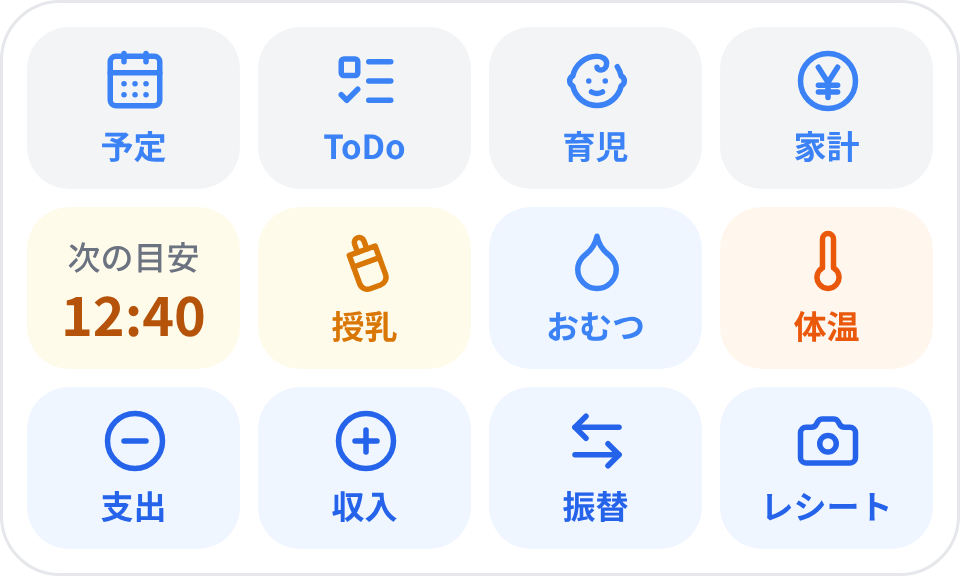
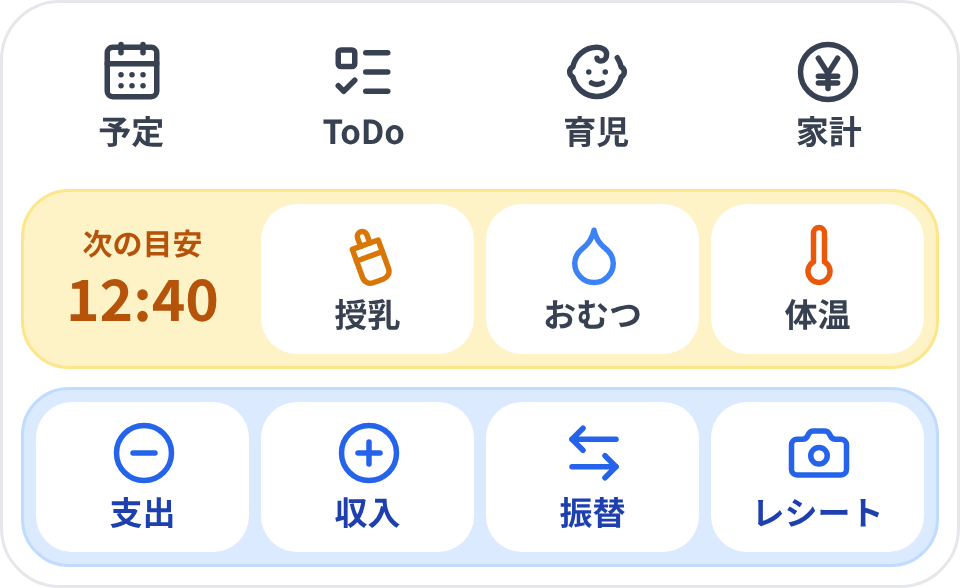
ウィジェットの配色を、まとまりごとの地の色で見分けられるように直す
- タブ: 白の地に、四角を持たない灰色のアイコン
- 育児: 琥珀の地に白いボタン（アイコンは記録の色、名前は灰色）
- 家計: 青の地に白いボタン
- 重ねたものは白の外枠の中で、育児・家計の段がそれぞれ自分の地を持つ
- 追加画面の見本を、ウィジェットのコードから描き直して作り直す

Claude-Session: https://claude.ai/code/session_01GrwNpQrqdVn461n6pnPzDs

diff --git a/mobile/src/widgets/parts.tsx b/mobile/src/widgets/parts.tsx
@@ -8,23 +8,42 @@ import { widgetIcon, type WidgetIconName } from './icons';
 // 色はアプリの配色（src/lib/theme.ts）をそのまま使う。アプリはライトだけ（app.config.js の
 // userInterfaceStyle: 'light'）なので、ウィジェットも端末がダークモードでもライトのまま描く
 // （ダーク用の絵は渡さない。ルートの CLAUDE.md の「配色」）。
+//
+// まとまり（タブ・育児・家計）ごとに地の色を決め、単体でも重ねても、どこからどこまでが
+// どのまとまりかが分かるようにする（2026-10-14。全部が淡い色の四角で見分けられなかった）。
+// - タブ: 白の地に、四角を持たない灰色のアイコン（下のタブバーと同じ「移動」の見た目）
+// - 育児: 琥珀の地（記録の授乳の色）に、白い四角のボタン
+// - 家計: 青の地（家計タブの差し色）に、白い四角のボタン
 
 const hex = (value: string) => value as ColorProp;
 
-/** ウィジェットの外枠。白の地に薄い枠線（アプリのカードと同じ）。中はボタンを横に並べた1段（4×1）。 */
-export function WidgetFrame({ children, gap = 8, padding = 12 }: { children: React.ReactNode; gap?: number; padding?: number }) {
+export type WidgetTone = 'tabs' | 'care' | 'money';
+
+/** まとまりの地と枠の色。 */
+export const TONES: Record<WidgetTone, { surface: string; border: string }> = {
+  tabs: { surface: colors.surface, border: colors.border },
+  // 白いボタンが浮いて見え、隣の段と見分けがつく濃さ（100番台）にする。
+  care: { surface: colors.milkBadge, border: colors.milkBorder },
+  money: { surface: colors.moneySoft, border: colors.diaperBorder },
+};
+
+/**
+ * ウィジェットの外枠。単体のときはそのまとまりの地の色で塗る。
+ * 重ねたもの（CombinedWidgets.tsx）は白の地で、育児・家計の段がそれぞれ自分の地（GroupBox）を持つ。
+ */
+export function WidgetFrame({ children, tone = 'tabs' }: { children: React.ReactNode; tone?: WidgetTone }) {
   return (
     <FlexWidget
       style={{
         height: 'match_parent',
         width: 'match_parent',
         flexDirection: 'column',
-        backgroundColor: hex(colors.surface),
+        backgroundColor: hex(TONES[tone].surface),
         borderRadius: 20,
         borderWidth: 1,
-        borderColor: hex(colors.border),
-        padding,
-        flexGap: gap,
+        borderColor: hex(TONES[tone].border),
+        padding: 6,
+        flexGap: 6,
       }}
     >
       {children}
@@ -32,19 +51,45 @@ export function WidgetFrame({ children, gap = 8, padding = 12 }: { children: Rea
   );
 }
 
-/** 押すと入力画面などを開く四角いボタン（アイコン＋短い名前）。 */
+/** 重ねたものの中の1段ぶんの地（育児・家計）。 */
+export function GroupBox({ children, tone }: { children: React.ReactNode; tone: WidgetTone }) {
+  return (
+    <FlexWidget
+      style={{
+        flex: 1,
+        width: 'match_parent',
+        flexDirection: 'row',
+        backgroundColor: hex(TONES[tone].surface),
+        borderRadius: 16,
+        borderWidth: 1,
+        borderColor: hex(TONES[tone].border),
+        padding: 4,
+        flexGap: 4,
+      }}
+    >
+      {children}
+    </FlexWidget>
+  );
+}
+
+/**
+ * 押すと入力画面などを開くボタン（アイコン＋短い名前）。
+ * tile は白い四角（育児・家計の地の上に置く）、plain は四角を持たない（タブ）。
+ */
 export function ActionButton({
   icon,
   label,
   uri,
   color,
-  surface,
+  labelColor = color,
+  variant = 'tile',
 }: {
   icon: WidgetIconName;
   label: string;
   uri: string;
   color: string;
-  surface: string;
+  labelColor?: string;
+  variant?: 'tile' | 'plain';
 }) {
   return (
     <FlexWidget
@@ -57,22 +102,21 @@ export function ActionButton({
         flexDirection: 'column',
         alignItems: 'center',
         justifyContent: 'center',
-        backgroundColor: hex(surface),
-        borderRadius: 14,
-        paddingVertical: 6,
+        ...(variant === 'tile' && { backgroundColor: hex(colors.surface), borderRadius: 12 }),
+        paddingVertical: 4,
         flexGap: 2,
       }}
     >
       <SvgWidget svg={widgetIcon(icon, color)} style={{ width: 22, height: 22 }} />
-      <TextWidget text={label} maxLines={1} style={{ fontSize: 11, fontWeight: '700', color: hex(color) }} />
+      <TextWidget text={label} maxLines={1} style={{ fontSize: 11, fontWeight: '700', color: hex(labelColor) }} />
     </FlexWidget>
   );
 }
 
-/** ボタンを横に並べる行。残りの高さをすべて使う。 */
-export function ButtonRow({ children }: { children: React.ReactNode }) {
+/** ボタンを横に並べる行（地を持たない）。残りの高さをすべて使う。 */
+export function ButtonRow({ children, gap = 4 }: { children: React.ReactNode; gap?: number }) {
   return (
-    <FlexWidget style={{ flex: 1, width: 'match_parent', flexDirection: 'row', flexGap: 6 }}>{children}</FlexWidget>
+    <FlexWidget style={{ flex: 1, width: 'match_parent', flexDirection: 'row', flexGap: gap }}>{children}</FlexWidget>
   );
 }
 

diff --git a/mobile/src/widgets/CareWidget.tsx b/mobile/src/widgets/CareWidget.tsx
@@ -3,19 +3,20 @@ import { appLink, OPEN_LOG_PARAM } from '@/lib/appLinks';
 import { formatTimeString } from '@/lib/dateUtils';
 import { colors } from '@/lib/theme';
 import type { LogType } from '@/types/app';
-import { ActionButton, ButtonRow, hex, WidgetFrame } from './parts';
+import { ActionButton, ButtonRow, GroupBox, hex, WidgetFrame } from './parts';
 import type { CareWidgetData, WidgetData, WidgetDataError } from './widgetData';
 import type { WidgetIconName } from './icons';
 
-// B. 育児（docs/widgets.md §2.2）。4×1 の1段に、次の授乳の目安と3つのボタンを並べる。
+// B. 育児（docs/widgets.md §2.2）。4×1 の1段に、次の授乳の目安と3つのボタンを並べる。琥珀の地に白いボタン。
 // 見出しは出さない。搾乳は授乳の入力画面にまとめてある（頻度も少ない）ので、ボタンを置かない。
 // ボタンはお知らせのタップと同じ飛び先（`/care?open=milk`。src/lib/appLinks.ts）。
 // ウィジェットから直接は保存しない（押し間違いで記録が増えないように）。
 
-const BUTTONS: { type: LogType; icon: WidgetIconName; label: string; color: string; surface: string }[] = [
-  { type: 'milk', icon: 'milk', label: '授乳', color: colors.milk, surface: colors.milkSurface },
-  { type: 'diaper', icon: 'diaper', label: 'おむつ', color: colors.diaper, surface: colors.diaperSurface },
-  { type: 'temperature', icon: 'temperature', label: '体温', color: colors.temperature, surface: colors.temperatureSurface },
+// アイコンは記録の種類の色（育児タブと同じ）、名前は灰色でそろえる（地の琥珀と競わないように）。
+const BUTTONS: { type: LogType; icon: WidgetIconName; label: string; color: string }[] = [
+  { type: 'milk', icon: 'milk', label: '授乳', color: colors.milk },
+  { type: 'diaper', icon: 'diaper', label: 'おむつ', color: colors.diaper },
+  { type: 'temperature', icon: 'temperature', label: '体温', color: colors.temperature },
 ];
 
 const careUri = appLink('care');
@@ -33,46 +34,42 @@ const dueLines = (data: WidgetData<CareWidgetData>): { label: string; value: str
   return { label: '次の目安', value: data.value.dueAt ? formatTimeString(data.value.dueAt) : '—' };
 };
 
-/** 次の目安と3つのボタンを並べた1段。タブと1つにまとめたもの（CombinedWidgets.tsx）でも使う。 */
-export function CareRow({ data }: { data: WidgetData<CareWidgetData> }) {
+/** 目安の欄と3つのボタン（地は持たない。単体は外枠、重ねたものは GroupBox が育児の地になる）。 */
+function careCells(data: WidgetData<CareWidgetData>) {
   const { label, value } = dueLines(data);
-  return (
-    <ButtonRow>
-      <FlexWidget
-        clickAction="OPEN_URI"
-        clickActionData={{ uri: careUri }}
-        accessibilityLabel={`${label} ${value}`}
-        style={{
-          flex: 1,
-          height: 'match_parent',
-          flexDirection: 'column',
-          alignItems: 'center',
-          justifyContent: 'center',
-          backgroundColor: hex(colors.milkSurface),
-          borderRadius: 14,
-        }}
-      >
-        <TextWidget text={label} maxLines={1} style={{ fontSize: 11, fontWeight: '500', color: hex(colors.textMuted) }} />
-        <TextWidget text={value} maxLines={1} style={{ fontSize: 18, fontWeight: '700', color: hex(colors.milkText) }} />
-      </FlexWidget>
-      {BUTTONS.map(({ type, icon, label: buttonLabel, color, surface }) => (
-        <ActionButton
-          key={type}
-          icon={icon}
-          label={buttonLabel}
-          uri={appLink('care', { [OPEN_LOG_PARAM]: type })}
-          color={color}
-          surface={surface}
-        />
-      ))}
-    </ButtonRow>
-  );
+  return [
+    <FlexWidget
+      key="due"
+      clickAction="OPEN_URI"
+      clickActionData={{ uri: careUri }}
+      accessibilityLabel={`${label} ${value}`}
+      style={{ flex: 1, height: 'match_parent', flexDirection: 'column', alignItems: 'center', justifyContent: 'center' }}
+    >
+      <TextWidget text={label} maxLines={1} style={{ fontSize: 10, fontWeight: '700', color: hex(colors.milkText) }} />
+      <TextWidget text={value} maxLines={1} style={{ fontSize: 19, fontWeight: '700', color: hex(colors.milkText) }} />
+    </FlexWidget>,
+    ...BUTTONS.map(({ type, icon, label: buttonLabel, color }) => (
+      <ActionButton
+        key={type}
+        icon={icon}
+        label={buttonLabel}
+        uri={appLink('care', { [OPEN_LOG_PARAM]: type })}
+        color={color}
+        labelColor={colors.textSubtle}
+      />
+    )),
+  ];
+}
+
+/** 育児の地の1段。タブと1つにまとめたもの（CombinedWidgets.tsx）で使う。 */
+export function CareRow({ data }: { data: WidgetData<CareWidgetData> }) {
+  return <GroupBox tone="care">{careCells(data)}</GroupBox>;
 }
 
 export function CareWidget({ data }: { data: WidgetData<CareWidgetData> }) {
   return (
-    <WidgetFrame padding={8}>
-      <CareRow data={data} />
+    <WidgetFrame tone="care">
+      <ButtonRow>{careCells(data)}</ButtonRow>
     </WidgetFrame>
   );
 }

diff --git a/mobile/src/widgets/MoneyWidget.tsx b/mobile/src/widgets/MoneyWidget.tsx
@@ -1,11 +1,11 @@
 import { appLink, OPEN_MONEY_PARAM, type MoneyOpen } from '@/lib/appLinks';
 import { colors } from '@/lib/theme';
-import { ActionButton, ButtonRow, WidgetFrame } from './parts';
+import { ActionButton, ButtonRow, GroupBox, WidgetFrame } from './parts';
 import type { WidgetIconName } from './icons';
 
 // C. 家計（docs/widgets.md §2.3）。4×1 の1段に4つのボタンだけを並べる（見出し・金額は出さない）。
 // 支出・収入・振替は記録の入力画面をその種類で開き、レシートは撮影から始める。
-// 中身を読まないので、ログインしていなくても圏外でも同じように出る。色は家計タブの差し色（青）。
+// 中身を読まないので、ログインしていなくても圏外でも同じように出る。青の地（家計タブの差し色）に白いボタン。
 
 const BUTTONS: { open: MoneyOpen; icon: WidgetIconName; label: string }[] = [
   { open: 'expense', icon: 'expense', label: '支出' },
@@ -14,28 +14,27 @@ const BUTTONS: { open: MoneyOpen; icon: WidgetIconName; label: string }[] = [
   { open: 'receipt', icon: 'receipt', label: 'レシート' },
 ];
 
-/** 4つのボタンを並べた1段。タブと1つにまとめたもの（CombinedWidgets.tsx）でも使う。 */
+const moneyCells = () =>
+  BUTTONS.map(({ open, icon, label }) => (
+    <ActionButton
+      key={open}
+      icon={icon}
+      label={label}
+      uri={appLink('money', { [OPEN_MONEY_PARAM]: open })}
+      color={colors.money}
+      labelColor={colors.moneyText}
+    />
+  ));
+
+/** 家計の地の1段。タブと1つにまとめたもの（CombinedWidgets.tsx）で使う。 */
 export function MoneyRow() {
-  return (
-    <ButtonRow>
-      {BUTTONS.map(({ open, icon, label }) => (
-        <ActionButton
-          key={open}
-          icon={icon}
-          label={label}
-          uri={appLink('money', { [OPEN_MONEY_PARAM]: open })}
-          color={colors.money}
-          surface={colors.moneySurface}
-        />
-      ))}
-    </ButtonRow>
-  );
+  return <GroupBox tone="money">{moneyCells()}</GroupBox>;
 }
 
 export function MoneyWidget() {
   return (
-    <WidgetFrame padding={8}>
-      <MoneyRow />
+    <WidgetFrame tone="money">
+      <ButtonRow>{moneyCells()}</ButtonRow>
     </WidgetFrame>
   );
 }

diff --git a/mobile/src/widgets/LauncherWidget.tsx b/mobile/src/widgets/LauncherWidget.tsx
@@ -6,6 +6,7 @@ import type { WidgetIconName } from './icons';
 
 // A. 4タブのランチャー（docs/widgets.md §2.1）。押したタブでアプリを開く（最初のタブの設定に関係なく）。
 // データは読まないので、ログインしていなくても圏外でも同じように出る。
+// 白の地に、四角を持たない灰色のアイコンを並べる（下のタブバーと同じ「移動」の見た目。育児・家計の色の段と区別する）。
 // 横長（4×1）なら横一列、正方形に近い（2×2）なら2段に並べる。
 // 育児・家計と1つにまとめたもの（CombinedWidgets.tsx）では、上の1段（TabsRow）として使う。
 
@@ -17,14 +18,7 @@ const TABS: { tab: TabId; icon: WidgetIconName; label: string }[] = [
 ];
 
 const button = ({ tab, icon, label }: (typeof TABS)[number]) => (
-  <ActionButton
-    key={tab}
-    icon={icon}
-    label={label}
-    uri={appLink(tab)}
-    color={colors.navActive}
-    surface={colors.neutralSurface}
-  />
+  <ActionButton key={tab} icon={icon} label={label} uri={appLink(tab)} color={colors.textSubtle} variant="plain" />
 );
 
 /** 4タブを横一列に並べた1段。 */
@@ -35,7 +29,7 @@ export function TabsRow() {
 export function LauncherWidget({ width, height }: { width: number; height: number }) {
   const twoRows = width < height * 2;
   return (
-    <WidgetFrame padding={8} gap={6}>
+    <WidgetFrame tone="tabs">
       {twoRows
         ? [
             <ButtonRow key="top">{TABS.slice(0, 2).map(button)}</ButtonRow>,

diff --git a/mobile/src/widgets/CombinedWidgets.tsx b/mobile/src/widgets/CombinedWidgets.tsx
@@ -7,11 +7,12 @@ import type { CareWidgetData, WidgetData } from './widgetData';
 // タブ（4×1）に育児・家計の段を重ねた、1つにまとめたウィジェット（docs/widgets.md §2.4）。
 // 段の中身は単体のウィジェット（TabLauncher・CareQuick・MoneyQuick）とまったく同じで、
 // 1段ぶんずつ縦に積むだけ（タブ＋育児＋家計は4×3、タブ＋育児・タブ＋家計は4×2）。
+// 外枠は白で、育児・家計の段はそれぞれ自分の地の色を持つ（どこからどこまでがどのまとまりか分かるように）。
 
 /** タブ＋育児＋家計（4×3）。 */
 export function TabsCareMoneyWidget({ care }: { care: WidgetData<CareWidgetData> }) {
   return (
-    <WidgetFrame padding={8} gap={6}>
+    <WidgetFrame>
       <TabsRow />
       <CareRow data={care} />
       <MoneyRow />
@@ -22,7 +23,7 @@ export function TabsCareMoneyWidget({ care }: { care: WidgetData<CareWidgetData>
 /** タブ＋育児（4×2）。 */
 export function TabsCareWidget({ care }: { care: WidgetData<CareWidgetData> }) {
   return (
-    <WidgetFrame padding={8} gap={6}>
+    <WidgetFrame>
       <TabsRow />
       <CareRow data={care} />
     </WidgetFrame>
@@ -32,7 +33,7 @@ export function TabsCareWidget({ care }: { care: WidgetData<CareWidgetData> }) {
 /** タブ＋家計（4×2）。 */
 export function TabsMoneyWidget() {
   return (
-    <WidgetFrame padding={8} gap={6}>
+    <WidgetFrame>
       <TabsRow />
       <MoneyRow />
     </WidgetFrame>

diff --git a/docs/widgets.md b/docs/widgets.md
@@ -26,10 +26,21 @@
 
 **配色はアプリと同じ（ライトだけ）。** アプリは `userInterfaceStyle: 'light'` で、端末がダークモードでも
 ライトのまま出す。ウィジェットも同じで、ダーク用の絵は作らない（ルートの `CLAUDE.md`「配色」）。
-色は `mobile/src/lib/theme.ts` をそのまま使う（育児は記録の色、家計は家計タブの青、タブはタブバーの青）。
+色は `mobile/src/lib/theme.ts` をそのまま使う。
+
+**まとまりごとに地の色を1つ割り当てる**（2026-10-14。最初の版は全部が淡い色の四角で、おむつ・家計・タブの青が重なり、
+どのボタンがどのまとまりか分からなかった）。単体でも重ねても同じ見分け方になる（`mobile/src/widgets/parts.tsx` の `TONES`）。
+
+| まとまり | 地 | ボタン |
+|---|---|---|
+| タブ | 白 | 四角を持たない灰色のアイコン（下のタブバーと同じ「画面を移る」見た目） |
+| 育児 | 琥珀（amber-100。授乳の色） | 白い四角。アイコンは記録の種類の色、名前は灰色 |
+| 家計 | 青（blue-100。家計タブの差し色） | 白い四角。アイコン・名前とも青 |
+
+- 単体は外枠をそのまとまりの地で塗る。重ねたものは外枠を白にし、育児・家計の段がそれぞれ自分の地（`GroupBox`）を持つ
 
 **追加画面の見本（`previewImage`）**: `mobile/assets/widget-preview/*.png`。無いと追加画面で全部アプリのアイコンになり、
-見分けがつかない（2026-10-14、最初の版で起きた）。見た目を変えたら見本も作り直す（ウィジェットと同じ色・アイコン・並びの絵）。
+見分けがつかない（2026-10-14、最初の版で起きた）。見た目を変えたら見本も作り直す。見本はウィジェットのJSX（`renderWidget`）をそのままHTMLに描き直して撮ったもので、手で描いた絵ではない（コードと見本がずれないように）。
 
 ### 2.1 A. タブ
 
